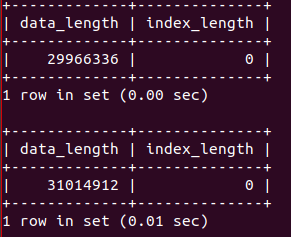
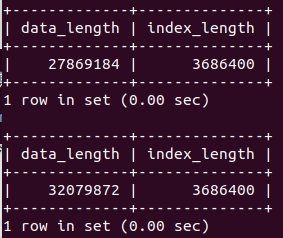
modify

Changed region(s): [[0.0, 0.0, 0.9611, 1.0]]

diff --git a/data/JWF1562_label/MySQL/import_mysql.py b/data/JWF1562_label/MySQL/import_mysql.py
@@ -21,7 +21,7 @@ columns_name = columns_name.strip(',')
 for table in tables:
     for cpnum in range(10000):
         for num in range(nums[table]):
-            values = '500, \'2019-11-30 11:58:47\','
+            values = '{}, \'2019-11-30 11:58:47\','.format(501+num)
             for i in range(1,data.shape[1]):
                 values = values + str(data.iloc[cpnum,i]) + ','
             values = values.strip(',')
